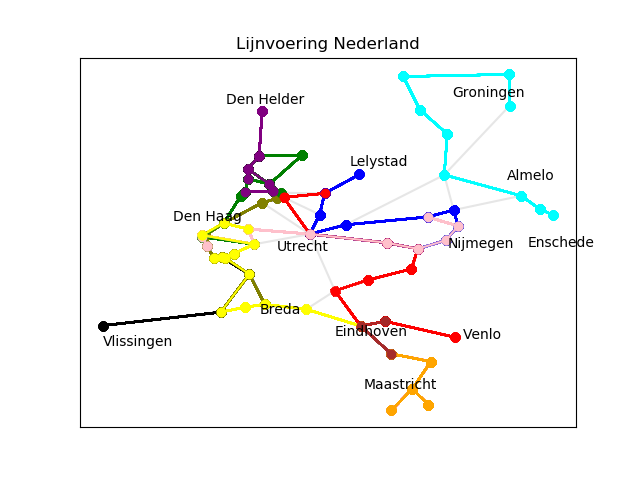
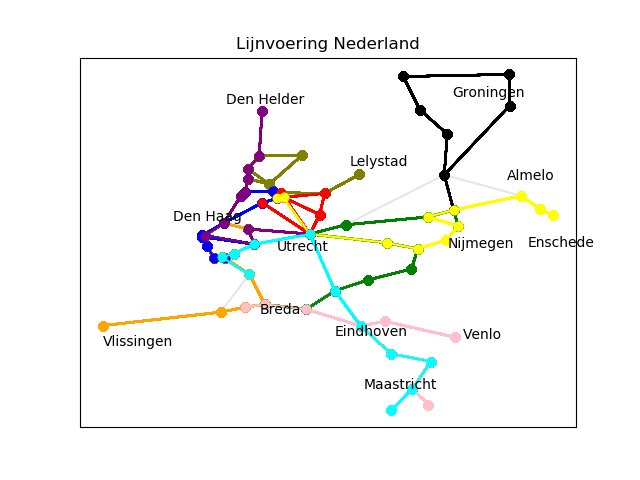
'h'

diff --git a/RailNL/Code/main2.py b/RailNL/Code/main2.py
@@ -17,10 +17,10 @@ import algo.hill_verderzoeken
 start_time = time.clock()
 
 # Aantal iteraties Nearest neighbor loop.
-HILL = 100
+HILL = 100000
 
 # Aantal iteraties verderzoekalgoritme.
-HILL2 = 100
+HILL2 = 1000
 
 # Max aantal minuten per traject voor eerste algoritme.
 MAX = 180
@@ -30,7 +30,7 @@ MAX2 = 180
 SCORE = 0
 
 # Aantal trajecten.
-TRAJECTEN = 10
+TRAJECTEN = 11
 
 # Te gebruiken CSV's.
 STATIONS = 'Data/StationsNationaal.csv'

diff --git a/RailNL/Code/main3.py b/RailNL/Code/main3.py
@@ -16,10 +16,10 @@ import visualisatie.visualisatie
 start_time = time.clock()
 
 # Aantal iteraties Nearest neighbor loop.
-HILL = 10
+HILL = 10000
 
 # Aantal iteraties verderzoekalgoritme.
-HILL2 = 100
+HILL2 = 30
 
 # Max aantal minuten per traject voor eerste algoritme.
 MAX = 180
